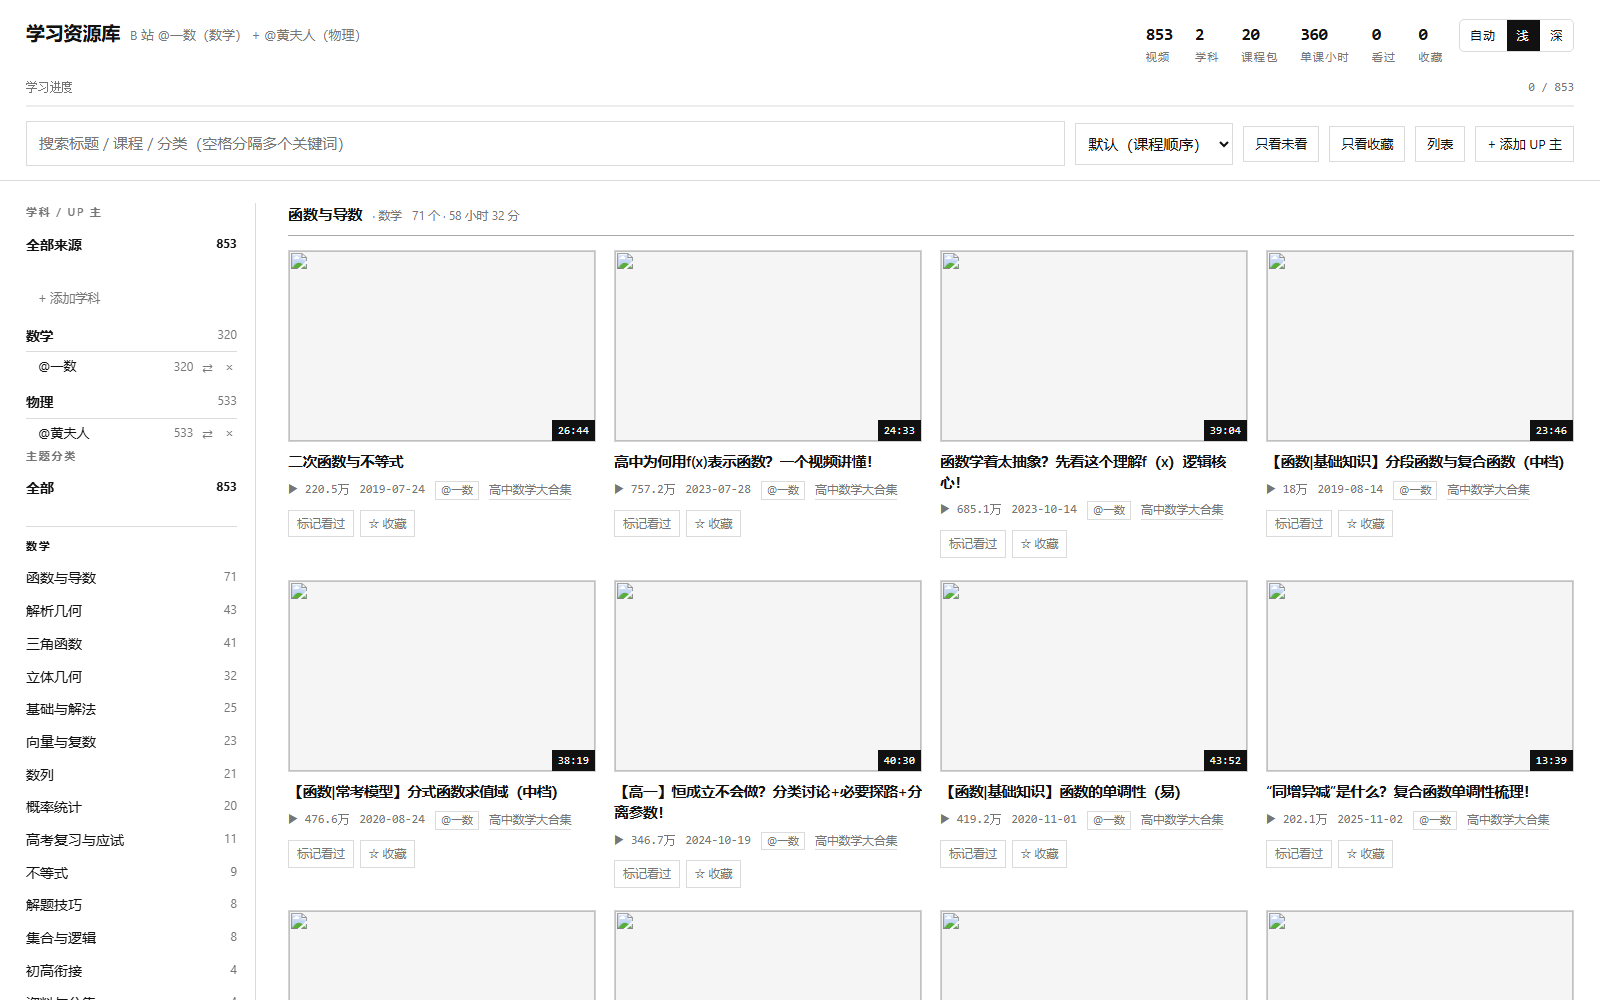
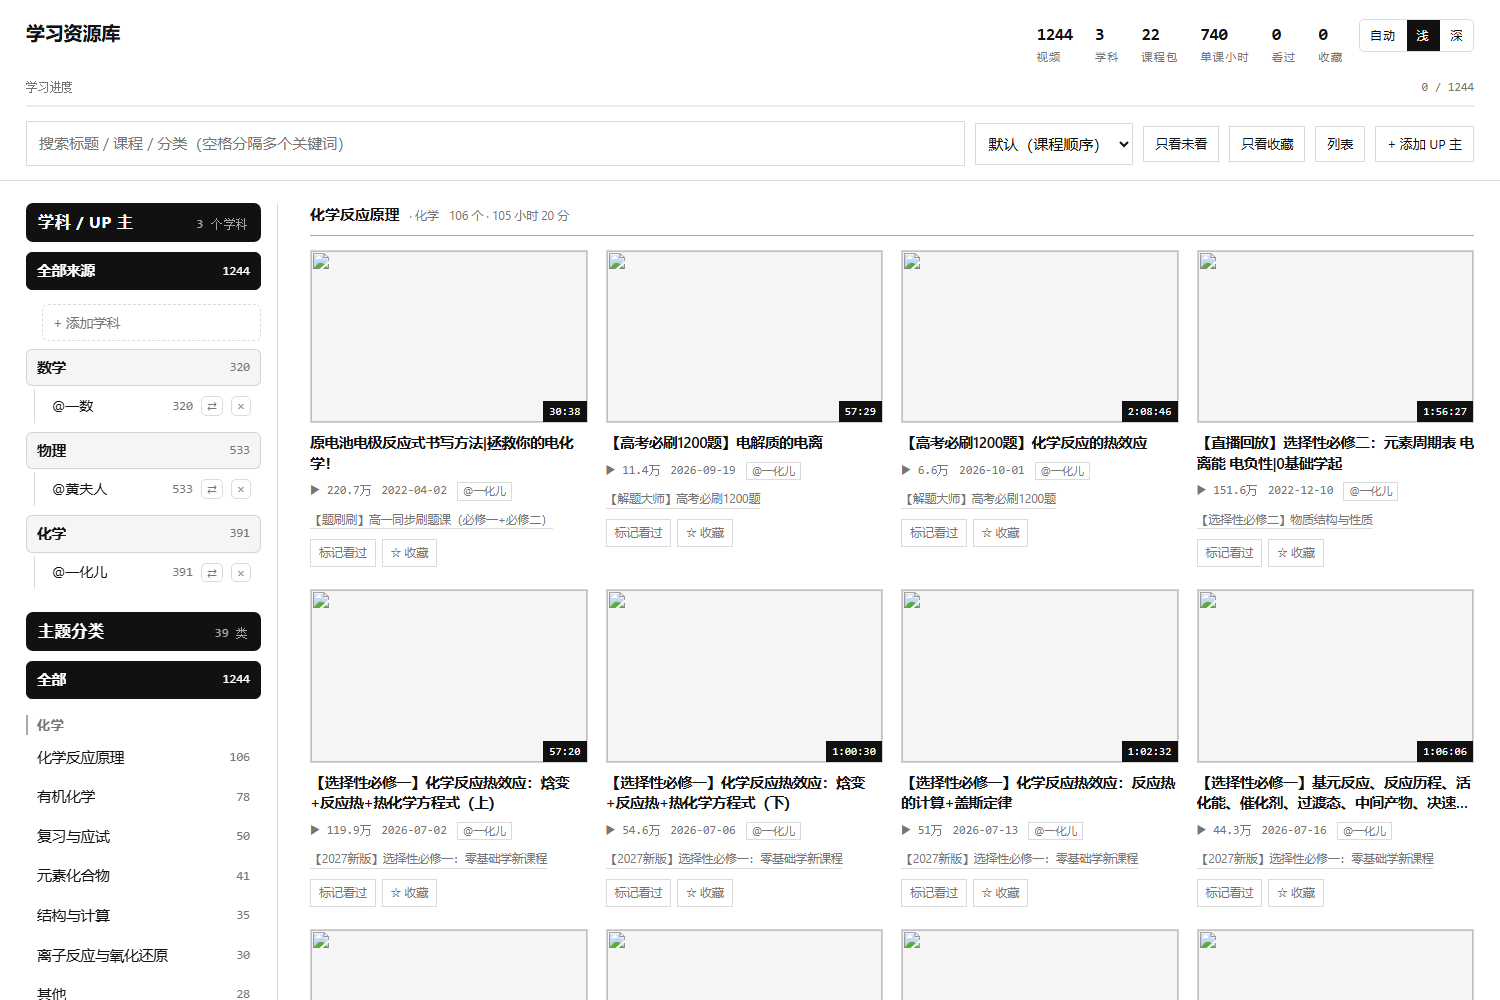
style(ui): 重做左侧栏层级，可点击项改成圆角矩形按钮
原版问题：分区标题只有 11px 灰色大写字母，子项 13~14px 且无底色，
「学科/UP主」「主题分类」看不出是分组，"学科 → UP 主"的从属关系也只剩缩进 12px 一条线索。

改造后的三级层次（浅色/深色都成立）：
1. 分区标题 .sec：16px + 反色实心块（黑底白字 / 深色下白底黑字）+ 右侧计数
   （"3 个学科" / "39 类" / "12 个"）—— 试过浅灰底，会被下面的学科行吃掉，故用反色
2. 学科行：14.5px 加粗 + 浅灰底圆角按钮
3. UP 主行：14px + 缩进 16px + 左侧竖线（最后一行竖线只画一半，收口更自然）
   ⇄ / × 小按钮也从无边框裸字符改成有边框圆角的按钮

交互：
- 所有可点击行统一 6px 圆角、内边距 8/10px，hover 有底色+描边
- 选中态从"仅加粗"改成反色实心，和 hover 明确区分
- 「+ 添加学科」改成虚线边框按钮，hover 变实线
- 侧栏宽度 230px → 252px，容纳放大后的字号与按钮内边距

测试：test_build.py 新增 [12b] 组 12 条断言锁住层级（字号大小关系、反色、圆角、
缩进竖线、计数、移动端不受影响）；同时修正 [12] 组里因 h4 → .sec 而失效的锚点。
166 断言全过；其余套件不受影响（爬虫 5982 / CORE 40 / serve 178）。

diff --git a/index.html b/index.html
@@ -1,5 +1,5 @@
 <!-- 自动生成，请勿手改：源文件是 resource-lab/index.html，由 make_pages.py 改写相对路径后生成 -->
-<!DOCTYPE html>
+<!DOCTYPE html>
 <html lang="zh-CN" data-theme="auto">
 <head>
 <meta charset="utf-8">
@@ -96,39 +96,64 @@
   .toggle{font-size:13px}
 
   /* ---------- 主体：侧栏 + 内容 ---------- */
-  main{display:grid;grid-template-columns:230px 1fr;gap:32px;padding:22px 0 60px;align-items:start}
-  nav{border-right:1px solid var(--line);padding-right:18px;position:sticky;top:132px;
+  main{display:grid;grid-template-columns:252px 1fr;gap:32px;padding:22px 0 60px;align-items:start}
+  nav{border-right:1px solid var(--line);padding-right:16px;position:sticky;top:132px;
     max-height:calc(100vh - 150px);overflow:auto}
-  nav h4{margin:0 0 8px;font-size:11px;letter-spacing:.16em;text-transform:uppercase;color:var(--muted);
-    font-weight:600}
-  nav h4.subj{margin-top:16px;padding-top:10px;border-top:1px solid var(--line);color:var(--fg)}
-  nav ul{list-style:none;margin:0 0 22px;padding:0}
-  nav li{display:flex;justify-content:space-between;gap:8px;padding:5px 0;cursor:pointer;font-size:14px;
-    border-bottom:1px solid transparent}
-  nav li:hover{color:var(--fg)}
-  nav li .n{color:var(--muted);font-size:12px}
-  nav li.on{font-weight:700}
-  nav li.on .n{color:var(--fg)}
-  nav li span:first-child{overflow:hidden;text-overflow:ellipsis;white-space:nowrap}
-  /* 学科分组 + 组内的 UP 主行（带改学科 / 删除） */
-  nav .subj-row{display:flex;justify-content:space-between;gap:8px;padding:6px 0;cursor:pointer;
-    font-weight:700;font-size:13.5px;border-bottom:1px solid var(--line);margin-top:4px}
-  nav .subj-row:hover{color:var(--fg)}
-  nav .subj-row .n{color:var(--muted);font-size:12px;font-weight:400}
-  nav .subj-row.on{text-decoration:underline;text-underline-offset:3px}
-  nav .src-row{display:flex;align-items:center;gap:6px;padding:4px 0 4px 12px;font-size:13px}
-  nav .src-row .nm{flex:1;overflow:hidden;text-overflow:ellipsis;white-space:nowrap;cursor:pointer}
-  nav .src-row .nm:hover{text-decoration:underline;text-underline-offset:3px}
-  nav .src-row .n{color:var(--muted);font-size:12px}
-  nav .src-row button.mini{border:none;padding:0 3px;color:var(--muted);font-size:13px;line-height:1;
-    background:none;cursor:pointer}
-  nav .src-row button.mini:hover{color:var(--fg);border:none}
-  nav .src-row .warn{color:var(--fg)}
-  nav .addlink{padding:6px 0 6px 12px;font-size:12.5px;color:var(--muted);cursor:pointer}
-  nav .addlink:hover{color:var(--fg)}
-  nav .newsubj{display:flex;gap:6px;padding:6px 0 6px 12px}
+
+  /* 分区标题：用反色实心块（黑底白字）——浅灰底会被下面的学科行"吃掉"，反色才压得住 */
+  nav .sec{display:flex;align-items:baseline;gap:8px;margin:22px 0 10px;padding:9px 12px;
+    background:var(--inverse-bg);color:var(--inverse-fg);border-radius:7px;
+    font-size:16px;font-weight:700;letter-spacing:.04em;line-height:1.3}
+  nav .sec:first-child{margin-top:0}
+  nav .sec .cnt{margin-left:auto;color:var(--inverse-fg);opacity:.62;font-size:12px;font-weight:400;
+    font-family:ui-monospace,Consolas,monospace}
+  /* 学科分组（二级标题）：比一级小一档，但仍明显重于条目 */
+  nav h4.subj{margin:16px 0 4px;padding:0 0 0 9px;font-size:13px;font-weight:600;letter-spacing:.05em;
+    color:var(--muted);border-left:2px solid var(--line-strong)}
+
+  nav ul{list-style:none;margin:0 0 14px;padding:0}
+
+  /* 可点击行统一做成圆角矩形按钮 */
+  nav li,nav .subj-row,nav .src-row{
+    display:flex;align-items:center;gap:8px;padding:8px 10px;margin:2px 0;
+    border:1px solid transparent;border-radius:6px;cursor:pointer;font-size:14.5px;line-height:1.35;
+    transition:background .12s,border-color .12s}
+  nav li:hover,nav .subj-row:hover,nav .src-row:hover{background:var(--fill);border-color:var(--line)}
+  nav li.on,nav .subj-row.on,nav .src-row.on{
+    background:var(--inverse-bg);color:var(--inverse-fg);border-color:var(--inverse-bg);font-weight:700}
+  nav li.on .n,nav .subj-row.on .n,nav .src-row.on .n,nav .src-row.on .nm{color:var(--inverse-fg)}
+  nav li.on button.mini,nav .src-row.on button.mini{color:var(--inverse-fg)}
+  nav li .n,nav .subj-row .n,nav .src-row .n{
+    margin-left:auto;color:var(--muted);font-size:12.5px;font-weight:400;
+    font-family:ui-monospace,Consolas,monospace;flex:none}
+  nav li > span:first-child,nav .src-row .nm,nav .subj-row > span:first-child{
+    overflow:hidden;text-overflow:ellipsis;white-space:nowrap;min-width:0}
+
+  /* 学科行：比 UP 主行重，但比一级分区标题轻（它属于"学科/UP主"这一节里的二级层级） */
+  nav .subj-row{font-size:14.5px;font-weight:700;padding:8px 10px;margin-top:8px;
+    background:var(--fill);border-color:var(--line)}
+  /* UP 主行：缩进 + 左侧细线，表示"归属于上面的学科" */
+  nav .src-row{font-size:14px;margin-left:16px;padding:7px 9px;position:relative}
+  nav .src-row::before{content:"";position:absolute;left:-9px;top:0;bottom:0;width:1px;
+    background:var(--line)}
+  nav .src-row:last-child::before{bottom:50%}
+  nav .src-row .warn{color:inherit;font-weight:600}
+  nav .src-row button.mini{border:1px solid var(--line);border-radius:5px;padding:1px 5px;
+    color:var(--muted);font-size:12px;line-height:1.3;background:none;cursor:pointer;flex:none}
+  nav .src-row button.mini:hover{color:var(--fg);border-color:var(--line-strong);background:var(--fill-2)}
+  nav .src-row select{border:1px solid var(--line-strong);border-radius:5px;background:var(--bg);
+    color:var(--fg);padding:2px 4px;font-size:12.5px;max-width:110px}
+
+  /* 「+ 添加学科」也做成按钮样式，和可点击行一致 */
+  nav .addlink{display:flex;align-items:center;gap:6px;margin:8px 0 0 16px;padding:7px 10px;
+    font-size:13.5px;color:var(--muted);cursor:pointer;border:1px dashed var(--line);
+    border-radius:6px;transition:color .12s,border-color .12s}
+  nav .addlink:hover{color:var(--fg);border-color:var(--line-strong);border-style:solid}
+  nav .newsubj{display:flex;gap:6px;margin:8px 0 0 16px}
   nav .newsubj input{flex:1;min-width:0;border:1px solid var(--line-strong);background:var(--bg);
-    color:var(--fg);padding:4px 6px;font-size:12.5px;border-radius:0}
+    color:var(--fg);padding:6px 8px;font-size:13.5px;border-radius:6px}
+  nav .newsubj button{flex:none;border:1px solid var(--line-strong);border-radius:6px;
+    padding:1px 8px;font-size:12.5px;cursor:pointer}
 
   .group{margin-bottom:38px}
   .group > h3{display:flex;align-items:baseline;gap:10px;margin:0 0 14px;font-size:15px;font-weight:700;
@@ -628,7 +653,8 @@
     }).length;
 
     /* 学科 → 该学科下的 UP 主，每个 UP 主带「改学科 / 删除」 */
-    var h = '<h4>学科 / UP 主</h4><ul>' +
+    var h = '<div class="sec">学科 / UP 主<span class="cnt">' + displaySubjects().length + ' 个学科</span></div>' +
+      '<ul>' +
       '<li data-subject="all" class="' + (S.subject === 'all' && S.source === 'all' ? 'on' : '') + '">' +
       '<span>全部来源</span><span class="n">' + total + '</span></li></ul>';
     /* 「+ 添加学科」必须放在学科列表之前：「全部来源」那一行下面。
@@ -677,12 +703,13 @@
     });
 
     var vis = visibleCategories();
-    h += '<h4>主题分类</h4><ul>' +
+    h += '<div class="sec">主题分类<span class="cnt">' + vis.length + ' 类</span></div><ul>' +
       '<li data-cat="all" class="' + (S.cat === 'all' ? 'on' : '') + '"><span>全部</span>' +
       '<span class="n">' + visCount + '</span></li></ul>';
     var subjOrder = [];
     vis.forEach(function (c) { if (subjOrder.indexOf(c.subject_id) < 0) subjOrder.push(c.subject_id); });
     subjOrder.forEach(function (sid) {
+      // 只在"全部学科"视角下才需要按学科再分一层；已经限定学科时这层是冗余的
       if (subjOrder.length > 1) h += '<h4 class="subj">' + esc(subjectName(sid)) + '</h4>';
       h += '<ul>' + vis.filter(function (c) { return c.subject_id === sid; }).map(function (c) {
         return '<li data-cat="' + esc(c.id) + '" class="' + (S.cat === c.id ? 'on' : '') + '">' +
@@ -692,7 +719,7 @@
     });
 
     var courses = DATA.courses.filter(function (c) { return !curSubject() || c.subject_id === curSubject(); });
-    h += '<h4>课程合集</h4><ul>' +
+    h += '<div class="sec">课程合集<span class="cnt">' + courses.length + ' 个</span></div><ul>' +
       '<li data-course="all" class="' + (S.course === 'all' ? 'on' : '') + '"><span>全部课程</span>' +
       '<span class="n">' + (curSubject() ? visCount : DATA.videos.length) + '</span></li>' +
       courses.map(function (c) {

diff --git a/resource-lab/index.html b/resource-lab/index.html
@@ -1,4 +1,4 @@
-<!DOCTYPE html>
+<!DOCTYPE html>
 <html lang="zh-CN" data-theme="auto">
 <head>
 <meta charset="utf-8">
@@ -95,39 +95,64 @@
   .toggle{font-size:13px}
 
   /* ---------- 主体：侧栏 + 内容 ---------- */
-  main{display:grid;grid-template-columns:230px 1fr;gap:32px;padding:22px 0 60px;align-items:start}
-  nav{border-right:1px solid var(--line);padding-right:18px;position:sticky;top:132px;
+  main{display:grid;grid-template-columns:252px 1fr;gap:32px;padding:22px 0 60px;align-items:start}
+  nav{border-right:1px solid var(--line);padding-right:16px;position:sticky;top:132px;
     max-height:calc(100vh - 150px);overflow:auto}
-  nav h4{margin:0 0 8px;font-size:11px;letter-spacing:.16em;text-transform:uppercase;color:var(--muted);
-    font-weight:600}
-  nav h4.subj{margin-top:16px;padding-top:10px;border-top:1px solid var(--line);color:var(--fg)}
-  nav ul{list-style:none;margin:0 0 22px;padding:0}
-  nav li{display:flex;justify-content:space-between;gap:8px;padding:5px 0;cursor:pointer;font-size:14px;
-    border-bottom:1px solid transparent}
-  nav li:hover{color:var(--fg)}
-  nav li .n{color:var(--muted);font-size:12px}
-  nav li.on{font-weight:700}
-  nav li.on .n{color:var(--fg)}
-  nav li span:first-child{overflow:hidden;text-overflow:ellipsis;white-space:nowrap}
-  /* 学科分组 + 组内的 UP 主行（带改学科 / 删除） */
-  nav .subj-row{display:flex;justify-content:space-between;gap:8px;padding:6px 0;cursor:pointer;
-    font-weight:700;font-size:13.5px;border-bottom:1px solid var(--line);margin-top:4px}
-  nav .subj-row:hover{color:var(--fg)}
-  nav .subj-row .n{color:var(--muted);font-size:12px;font-weight:400}
-  nav .subj-row.on{text-decoration:underline;text-underline-offset:3px}
-  nav .src-row{display:flex;align-items:center;gap:6px;padding:4px 0 4px 12px;font-size:13px}
-  nav .src-row .nm{flex:1;overflow:hidden;text-overflow:ellipsis;white-space:nowrap;cursor:pointer}
-  nav .src-row .nm:hover{text-decoration:underline;text-underline-offset:3px}
-  nav .src-row .n{color:var(--muted);font-size:12px}
-  nav .src-row button.mini{border:none;padding:0 3px;color:var(--muted);font-size:13px;line-height:1;
-    background:none;cursor:pointer}
-  nav .src-row button.mini:hover{color:var(--fg);border:none}
-  nav .src-row .warn{color:var(--fg)}
-  nav .addlink{padding:6px 0 6px 12px;font-size:12.5px;color:var(--muted);cursor:pointer}
-  nav .addlink:hover{color:var(--fg)}
-  nav .newsubj{display:flex;gap:6px;padding:6px 0 6px 12px}
+
+  /* 分区标题：用反色实心块（黑底白字）——浅灰底会被下面的学科行"吃掉"，反色才压得住 */
+  nav .sec{display:flex;align-items:baseline;gap:8px;margin:22px 0 10px;padding:9px 12px;
+    background:var(--inverse-bg);color:var(--inverse-fg);border-radius:7px;
+    font-size:16px;font-weight:700;letter-spacing:.04em;line-height:1.3}
+  nav .sec:first-child{margin-top:0}
+  nav .sec .cnt{margin-left:auto;color:var(--inverse-fg);opacity:.62;font-size:12px;font-weight:400;
+    font-family:ui-monospace,Consolas,monospace}
+  /* 学科分组（二级标题）：比一级小一档，但仍明显重于条目 */
+  nav h4.subj{margin:16px 0 4px;padding:0 0 0 9px;font-size:13px;font-weight:600;letter-spacing:.05em;
+    color:var(--muted);border-left:2px solid var(--line-strong)}
+
+  nav ul{list-style:none;margin:0 0 14px;padding:0}
+
+  /* 可点击行统一做成圆角矩形按钮 */
+  nav li,nav .subj-row,nav .src-row{
+    display:flex;align-items:center;gap:8px;padding:8px 10px;margin:2px 0;
+    border:1px solid transparent;border-radius:6px;cursor:pointer;font-size:14.5px;line-height:1.35;
+    transition:background .12s,border-color .12s}
+  nav li:hover,nav .subj-row:hover,nav .src-row:hover{background:var(--fill);border-color:var(--line)}
+  nav li.on,nav .subj-row.on,nav .src-row.on{
+    background:var(--inverse-bg);color:var(--inverse-fg);border-color:var(--inverse-bg);font-weight:700}
+  nav li.on .n,nav .subj-row.on .n,nav .src-row.on .n,nav .src-row.on .nm{color:var(--inverse-fg)}
+  nav li.on button.mini,nav .src-row.on button.mini{color:var(--inverse-fg)}
+  nav li .n,nav .subj-row .n,nav .src-row .n{
+    margin-left:auto;color:var(--muted);font-size:12.5px;font-weight:400;
+    font-family:ui-monospace,Consolas,monospace;flex:none}
+  nav li > span:first-child,nav .src-row .nm,nav .subj-row > span:first-child{
+    overflow:hidden;text-overflow:ellipsis;white-space:nowrap;min-width:0}
+
+  /* 学科行：比 UP 主行重，但比一级分区标题轻（它属于"学科/UP主"这一节里的二级层级） */
+  nav .subj-row{font-size:14.5px;font-weight:700;padding:8px 10px;margin-top:8px;
+    background:var(--fill);border-color:var(--line)}
+  /* UP 主行：缩进 + 左侧细线，表示"归属于上面的学科" */
+  nav .src-row{font-size:14px;margin-left:16px;padding:7px 9px;position:relative}
+  nav .src-row::before{content:"";position:absolute;left:-9px;top:0;bottom:0;width:1px;
+    background:var(--line)}
+  nav .src-row:last-child::before{bottom:50%}
+  nav .src-row .warn{color:inherit;font-weight:600}
+  nav .src-row button.mini{border:1px solid var(--line);border-radius:5px;padding:1px 5px;
+    color:var(--muted);font-size:12px;line-height:1.3;background:none;cursor:pointer;flex:none}
+  nav .src-row button.mini:hover{color:var(--fg);border-color:var(--line-strong);background:var(--fill-2)}
+  nav .src-row select{border:1px solid var(--line-strong);border-radius:5px;background:var(--bg);
+    color:var(--fg);padding:2px 4px;font-size:12.5px;max-width:110px}
+
+  /* 「+ 添加学科」也做成按钮样式，和可点击行一致 */
+  nav .addlink{display:flex;align-items:center;gap:6px;margin:8px 0 0 16px;padding:7px 10px;
+    font-size:13.5px;color:var(--muted);cursor:pointer;border:1px dashed var(--line);
+    border-radius:6px;transition:color .12s,border-color .12s}
+  nav .addlink:hover{color:var(--fg);border-color:var(--line-strong);border-style:solid}
+  nav .newsubj{display:flex;gap:6px;margin:8px 0 0 16px}
   nav .newsubj input{flex:1;min-width:0;border:1px solid var(--line-strong);background:var(--bg);
-    color:var(--fg);padding:4px 6px;font-size:12.5px;border-radius:0}
+    color:var(--fg);padding:6px 8px;font-size:13.5px;border-radius:6px}
+  nav .newsubj button{flex:none;border:1px solid var(--line-strong);border-radius:6px;
+    padding:1px 8px;font-size:12.5px;cursor:pointer}
 
   .group{margin-bottom:38px}
   .group > h3{display:flex;align-items:baseline;gap:10px;margin:0 0 14px;font-size:15px;font-weight:700;
@@ -627,7 +652,8 @@
     }).length;
 
     /* 学科 → 该学科下的 UP 主，每个 UP 主带「改学科 / 删除」 */
-    var h = '<h4>学科 / UP 主</h4><ul>' +
+    var h = '<div class="sec">学科 / UP 主<span class="cnt">' + displaySubjects().length + ' 个学科</span></div>' +
+      '<ul>' +
       '<li data-subject="all" class="' + (S.subject === 'all' && S.source === 'all' ? 'on' : '') + '">' +
       '<span>全部来源</span><span class="n">' + total + '</span></li></ul>';
     /* 「+ 添加学科」必须放在学科列表之前：「全部来源」那一行下面。
@@ -676,12 +702,13 @@
     });
 
     var vis = visibleCategories();
-    h += '<h4>主题分类</h4><ul>' +
+    h += '<div class="sec">主题分类<span class="cnt">' + vis.length + ' 类</span></div><ul>' +
       '<li data-cat="all" class="' + (S.cat === 'all' ? 'on' : '') + '"><span>全部</span>' +
       '<span class="n">' + visCount + '</span></li></ul>';
     var subjOrder = [];
     vis.forEach(function (c) { if (subjOrder.indexOf(c.subject_id) < 0) subjOrder.push(c.subject_id); });
     subjOrder.forEach(function (sid) {
+      // 只在"全部学科"视角下才需要按学科再分一层；已经限定学科时这层是冗余的
       if (subjOrder.length > 1) h += '<h4 class="subj">' + esc(subjectName(sid)) + '</h4>';
       h += '<ul>' + vis.filter(function (c) { return c.subject_id === sid; }).map(function (c) {
         return '<li data-cat="' + esc(c.id) + '" class="' + (S.cat === c.id ? 'on' : '') + '">' +
@@ -691,7 +718,7 @@
     });
 
     var courses = DATA.courses.filter(function (c) { return !curSubject() || c.subject_id === curSubject(); });
-    h += '<h4>课程合集</h4><ul>' +
+    h += '<div class="sec">课程合集<span class="cnt">' + courses.length + ' 个</span></div><ul>' +
       '<li data-course="all" class="' + (S.course === 'all' ? 'on' : '') + '"><span>全部课程</span>' +
       '<span class="n">' + (curSubject() ? visCount : DATA.videos.length) + '</span></li>' +
       courses.map(function (c) {

diff --git a/resource-lab/test_build.py b/resource-lab/test_build.py
@@ -461,7 +461,8 @@ ok("侧栏按学科分组显示 UP 主", "subj-row" in html and "src-row" in htm
 ok("支持添加自定义学科", "data-addsubj" in html and "data-addsubjok" in html and "addSubject" in html)
 # 注意：不能用第一次出现 "displaySubjects().forEach" 的位置做比较 —— render() 里的手机标签条
 # 也调用它（更靠前）。这里锚定导航里那次：学科循环紧跟在「全部来源」之后。
-_nav = html.index('<h4>学科 / UP 主</h4>')
+# 分区标题从 h4 换成了 .sec（侧栏层级改造），锚点跟着变。
+_nav = html.index('<div class="sec">学科 / UP 主')
 _nav_end = html.index('var vis = visibleCategories();', _nav)
 _nav_block = html[_nav:_nav_end]
 ok("「+ 添加学科」拼在导航的学科列表里（不在别处）",
@@ -485,6 +486,36 @@ ok("支持改已有 UP 主的学科", "data-change" in html and "data-changesel"
 ok("学科下拉框是动态生成的（含自定义学科）", "fillSubjectSelect" in html)
 ok("深色模式下拉栏显式指定黑色背景", '[data-theme="dark"] select' in html and "background:#000" in html)
 ok("用 color-scheme 让原生控件跟随主题", "color-scheme:dark" in html and "color-scheme:light" in html)
+
+print("\n[12b] 侧栏层级与可点击按钮")
+# 原版侧栏的问题：分区标题只有 11px 灰色大写，子项 13~14px 无底色，层级全靠缩进 12px。
+# 这组断言锁住改造后的层级：一级分区 > 二级学科 > 三级条目，且可点击项都是圆角按钮。
+nav_css = html[html.index("/* ---------- 主体：侧栏 + 内容 ---------- */"):
+               html.index("nav .newsubj button")]
+ok("分区标题改成了 .sec（不再是 11px 灰色大写 h4）",
+   'nav .sec{' in nav_css and 'nav h4{' not in nav_css)
+ok("分区标题字号 >= 16px", "font-size:16px" in nav_css, )
+ok("分区标题用反色实心块（浅灰底会被下面的学科行吃掉）",
+   "nav .sec{" in nav_css and "background:var(--inverse-bg)" in nav_css)
+ok("分区标题带计数（几类 / 几个学科）", 'class="sec"' in html and 'class="cnt"' in html
+   and html.count('class="sec"') >= 3)
+ok("可点击行都有圆角矩形样式（border-radius:6px）",
+   nav_css.count("border-radius:6px") >= 3)
+ok("可点击行有内边距与 hover 底色",
+   "nav li:hover" in nav_css and "background:var(--fill)" in nav_css)
+ok("选中态是反色实心（不只是加粗）",
+   "nav li.on,nav .subj-row.on,nav .src-row.on{" in nav_css
+   and nav_css.count("background:var(--inverse-bg)") >= 2)
+ok("层级：学科行(15px 以下且带灰底) < 分区标题(16px 反色)",
+   "nav .subj-row{font-size:14.5px" in nav_css and "font-size:16px" in nav_css)
+ok("UP 主行缩进 + 左侧竖线表达从属关系",
+   "nav .src-row{font-size:14px;margin-left:16px" in nav_css and "src-row::before" in nav_css)
+ok("「+ 添加学科」也是圆角按钮（虚线边框）",
+   "nav .addlink{" in nav_css and "border:1px dashed" in nav_css)
+ok("小按钮（⇄ / ×）有边框和圆角，不再是无边框裸字符",
+   "nav .src-row button.mini{border:1px solid" in nav_css)
+ok("移动端侧栏整体隐藏（改用 chips），不受本次改动影响",
+   "nav{display:none}" in html and ".chips{display:flex}" in html)
 ok("卡片上标了作者", '"author"' in html and "@" in html and "class=\"author\"" in html)
 ok("分类按学科隔离显示（含学科分组标题）", "visibleCategories" in html and "subj" in html)
 ok("用了课程包角标（is_bundle）", "is_bundle" in html and "课程包" in html)
